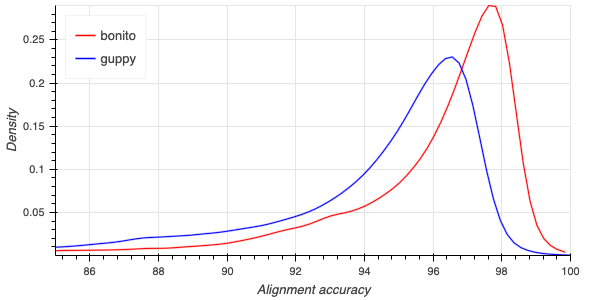
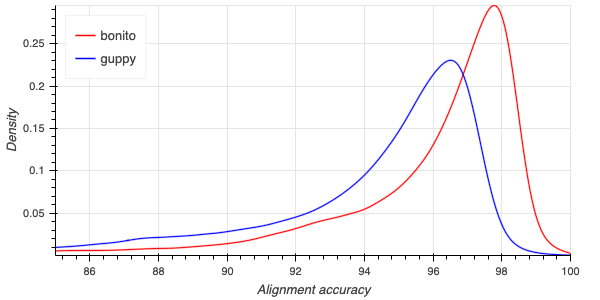
Update bonito post

Changed region(s): [[0.03, 0.0, 0.96, 0.84], [0.03, 0.12, 0.12, 0.18]]

diff --git a/content/blog/bonito/plot.py b/content/blog/bonito/plot.py
@@ -1,0 +1,36 @@
+from concurrent.futures import ProcessPoolExecutor
+
+import pandas as pd
+
+import aplanat.util
+from aplanat import lines
+from aplanat.layouts import facet_grid
+from aplanat.report import HTMLReport
+
+
+def read_data(args):
+    caller, filename = args
+    df = pd.read_csv(filename, sep='\t')
+    xs, ys = aplanat.util.kernel_density_estimate(df['acc'], step=0.05)
+    df = pd.DataFrame({'accuracy':xs, 'density':ys})
+    df['caller'] = caller
+    return df
+
+data_sets = {
+    'bonito': 'bonito.stats',
+    'guppy': 'guppy.stats'}
+
+with ProcessPoolExecutor() as executor:
+    report = HTMLReport("Basecalling Accuracy Summary", "GM24385")
+    dfs = list(executor.map(read_data, data_sets.items()))
+plot = lines.line(
+    [df['accuracy'] for df in dfs],
+    [df['density'] for df in dfs],
+    colors=['red', 'blue'],
+    names=['bonito', 'guppy'],
+    xlim=(85,100),
+    x_axis_label='Alignment accuracy',
+    y_axis_label='Density')
+plot.legend.location = 'top_left'
+report.plot(plot)
+report.write("report.html")

diff --git a/content/blog/bonito/index.md b/content/blog/bonito/index.md
@@ -9,6 +9,8 @@ tags:
   - basecalling
 ---
 
+**Updated 2020-10-30: This page was edited to reflect the formal release of Bonito v0.3.0**
+
 We are please to announce the addition of
 [bonito](https://github.com/nanoporetech/bonito) basecalling results to the
 GM24385 dataset. Bonito is a research-grade, open source basecaller utilising
@@ -16,25 +18,23 @@ the [PyTorch](https://pytorch.org/) library; its development explores
 alternative basecalling frameworks to those use in the product-grade Guppy
 basecalling software.
 
-The Bonito basecalling for the GM24385 dataset was performed using an early
-version 0.3.0 (*amendment 2020-10-28: the version used implements a different
-algorithm to that in the released Bonito v0.3.0*),
-driven by the same [katuali](/katuali_human_pipeline/) analysis
-pipeline as for the initial dataset release.  The Bonito basecaller was
-provided as input the per-chromosome `.fast5` files created in the initial
-pipeline via alignment of the Guppy 4.0.11 basecalls. This allows for easy
-comparison of results on subsets of the data (but may lead to subtle
-side-effects). For example the analysis data structure contains now entries of
-the form:
+The Bonito basecalling for the GM24385 dataset was performed using version
+0.3.0, driven by the same [katuali](/katuali_human_pipeline/) analysis pipeline
+as for the initial dataset release.  The Bonito basecaller was provided as
+input the per-chromosome `.fast5` files created in the initial pipeline via
+alignment of the Guppy 4.0.11 basecalls. This allows for easy comparison of
+results on subsets of the data (but may lead to subtle side-effects). For
+example the analysis data structure contains now entries of the form:
 
-    gm24385_2020.09/analysis/r9.4.1/{flowcell}/guppy_{suffix}/align_unfiltered/{chromosome}/bonito
+    gm24385_2020.09/analysis/r9.4.1/{flowcell}/guppy_{suffix}/align_unfiltered/{chromosome}/bonito_v0.3.0/
     ├── align_unfiltered
     │   ├── align_to_ref.log
     │   ├── basecall_stats.log
     │   ├── calls2ref.bam
     │   ├── calls2ref.bam.bai
     │   └── calls2ref_stats.txt
-    └── basecalls.fastq.gz
+    ├── basecalls.fastq.gz
+    └── basecalls.fastq.gz_summary.tsv
 
 The file `basecalls.fastq.gz` contains the basecalling results from Bonito. The
 quality scores in these files have been mocked as the pre-release build of Bonito used
@@ -50,9 +50,9 @@ files for both the Guppy and Bonito basecalls. To simplify the analysis we compa
 data for a single flowcell; we can download the files with:
 
     aws s3 cp --no-sign-request s3://ont-open-data/gm24385_2020.09/analysis/r9.4.1/20200914_1354_6B_PAF27096_e7c9eae6/guppy_v4.0.11_r9.4.1_hac_prom/align_unfiltered/chr1/calls2ref_stats.txt guppy.stats
-    aws s3 cp --no-sign-request s3://ont-open-data/gm24385_2020.09/analysis/r9.4.1/20200914_1354_6B_PAF27096_e7c9eae6/guppy_v4.0.11_r9.4.1_hac_prom/align_unfiltered/chr1/bonito/align_unfiltered/calls2ref_stats.txt bonito.stats
+    aws s3 cp --no-sign-request s3://ont-open-data/gm24385_2020.09/analysis/r9.4.1/20200914_1354_6B_PAF27096_e7c9eae6/guppy_v4.0.11_r9.4.1_hac_prom/align_unfiltered/chr1/bonito_v0.3.0/align_unfiltered/calls2ref_stats.txt bonito.stats
 
-The following python code,
+The following [python code](./plot.py),
 
     from concurrent.futures import ProcessPoolExecutor
     
@@ -67,7 +67,7 @@ The following python code,
     def read_data(args):
         caller, filename = args
         df = pd.read_csv(filename, sep='\t')
-        xs, ys = aplanat.util.kernel_density_estimate(df['acc'], step=0.2)
+        xs, ys = aplanat.util.kernel_density_estimate(df['acc'], step=0.05)
         df = pd.DataFrame({'accuracy':xs, 'density':ys})
         df['caller'] = caller
         return df
